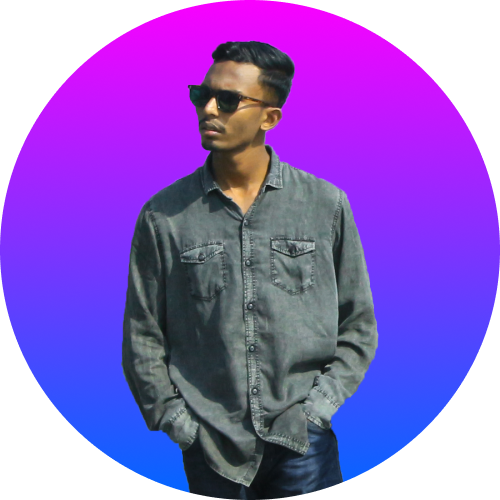
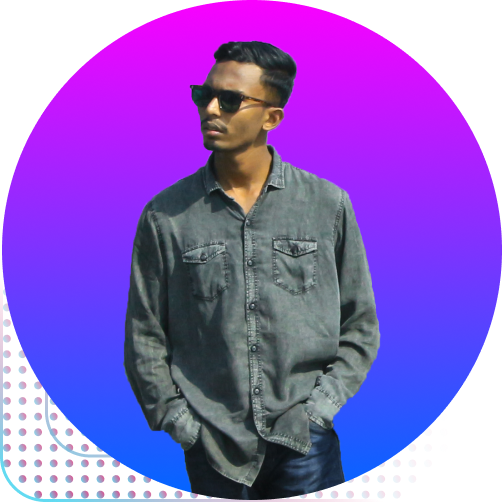
10th

diff --git a/index.html b/index.html
@@ -43,8 +43,16 @@
             <img src="images/s-style.png" alt="MyOne">
         </div>
     </section>
+    <br>
+    <br>
+    <br>
+    <br>
+    <br>
+    <br>
     <section>
-        <img src="" alt="">
+        <div class="2nd-half">
+            <img src="images/2nd-sec.png" alt="dark-light">
+        </div>
     </section>
 </body>
 

diff --git a/style.css b/style.css
@@ -56,3 +56,6 @@ section {
     background-image: url(images/banner.png);
     background-repeat: no-repeat;
 }
+.2nd-half{
+    padding-left: 60px;
+}
